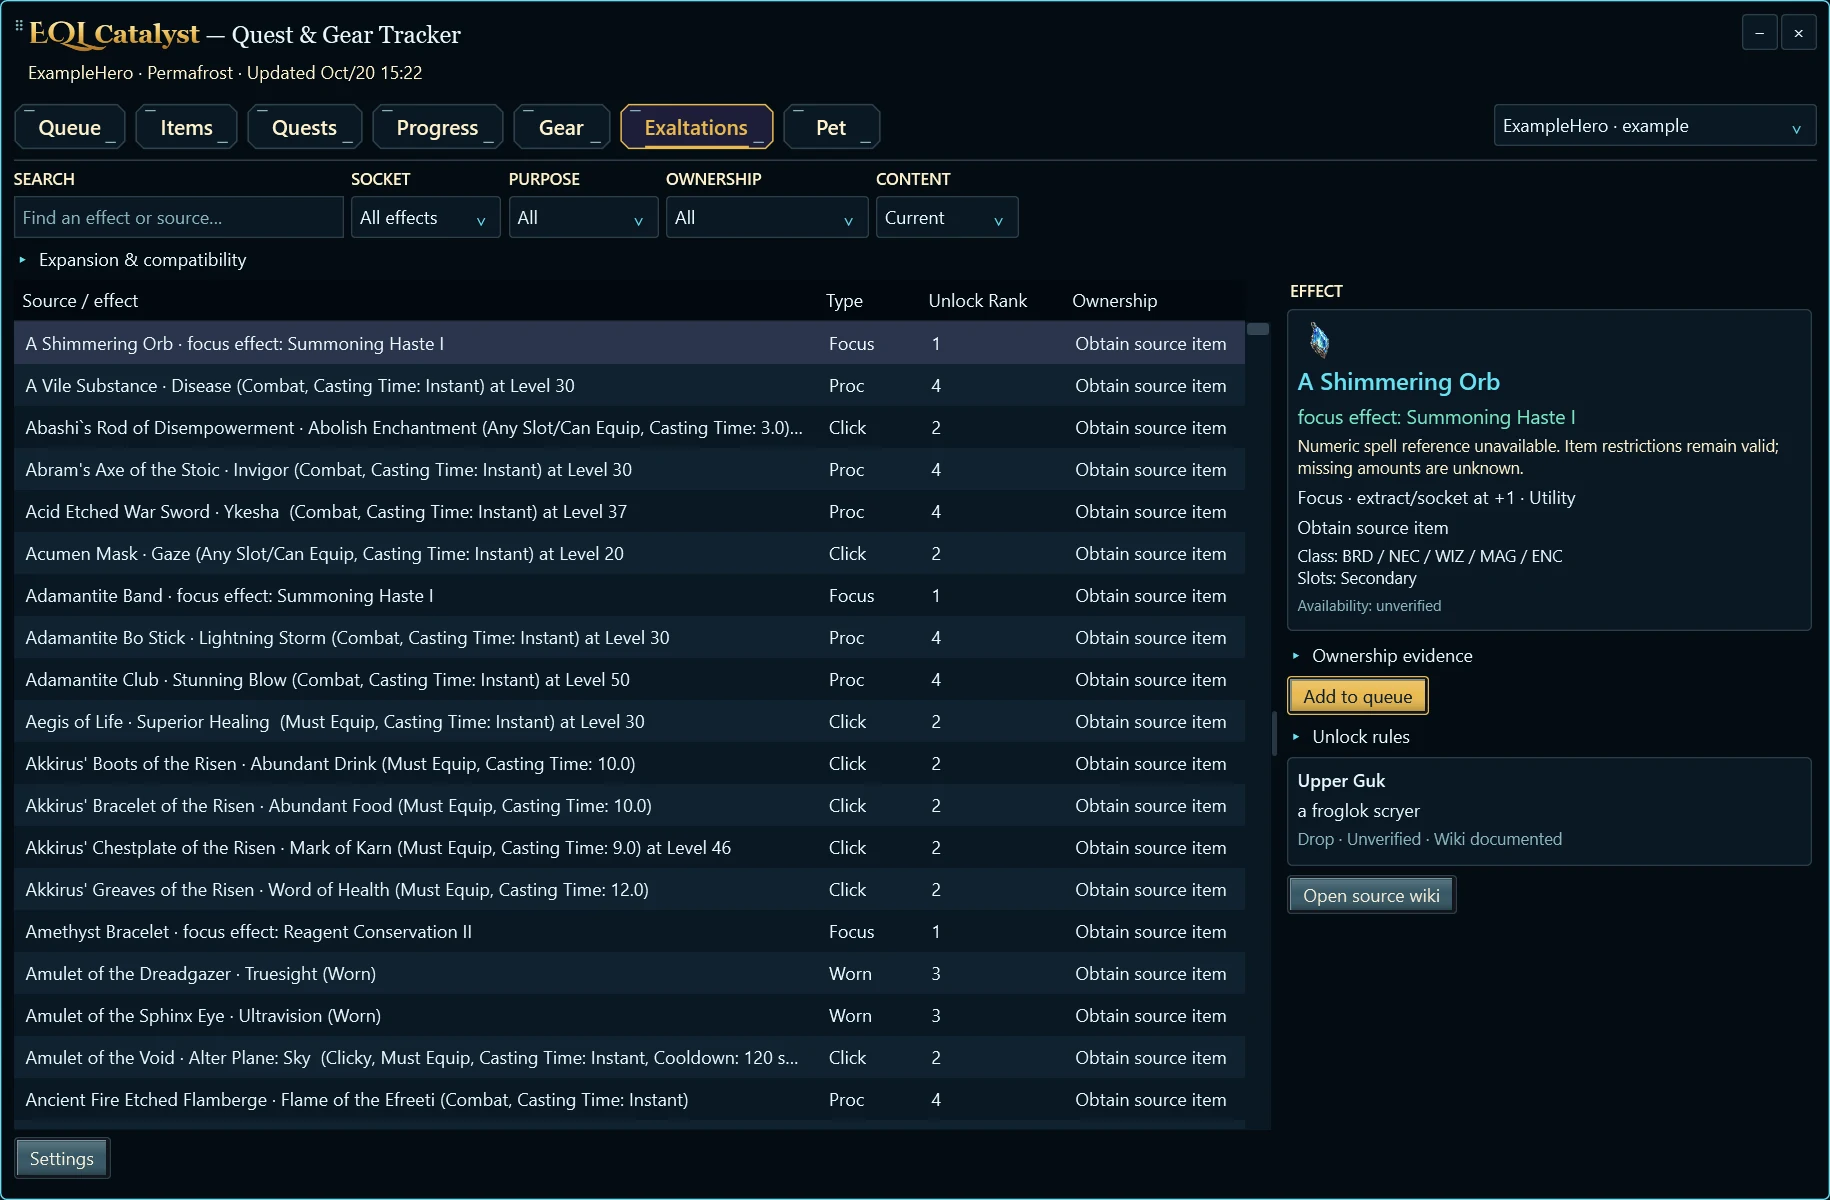
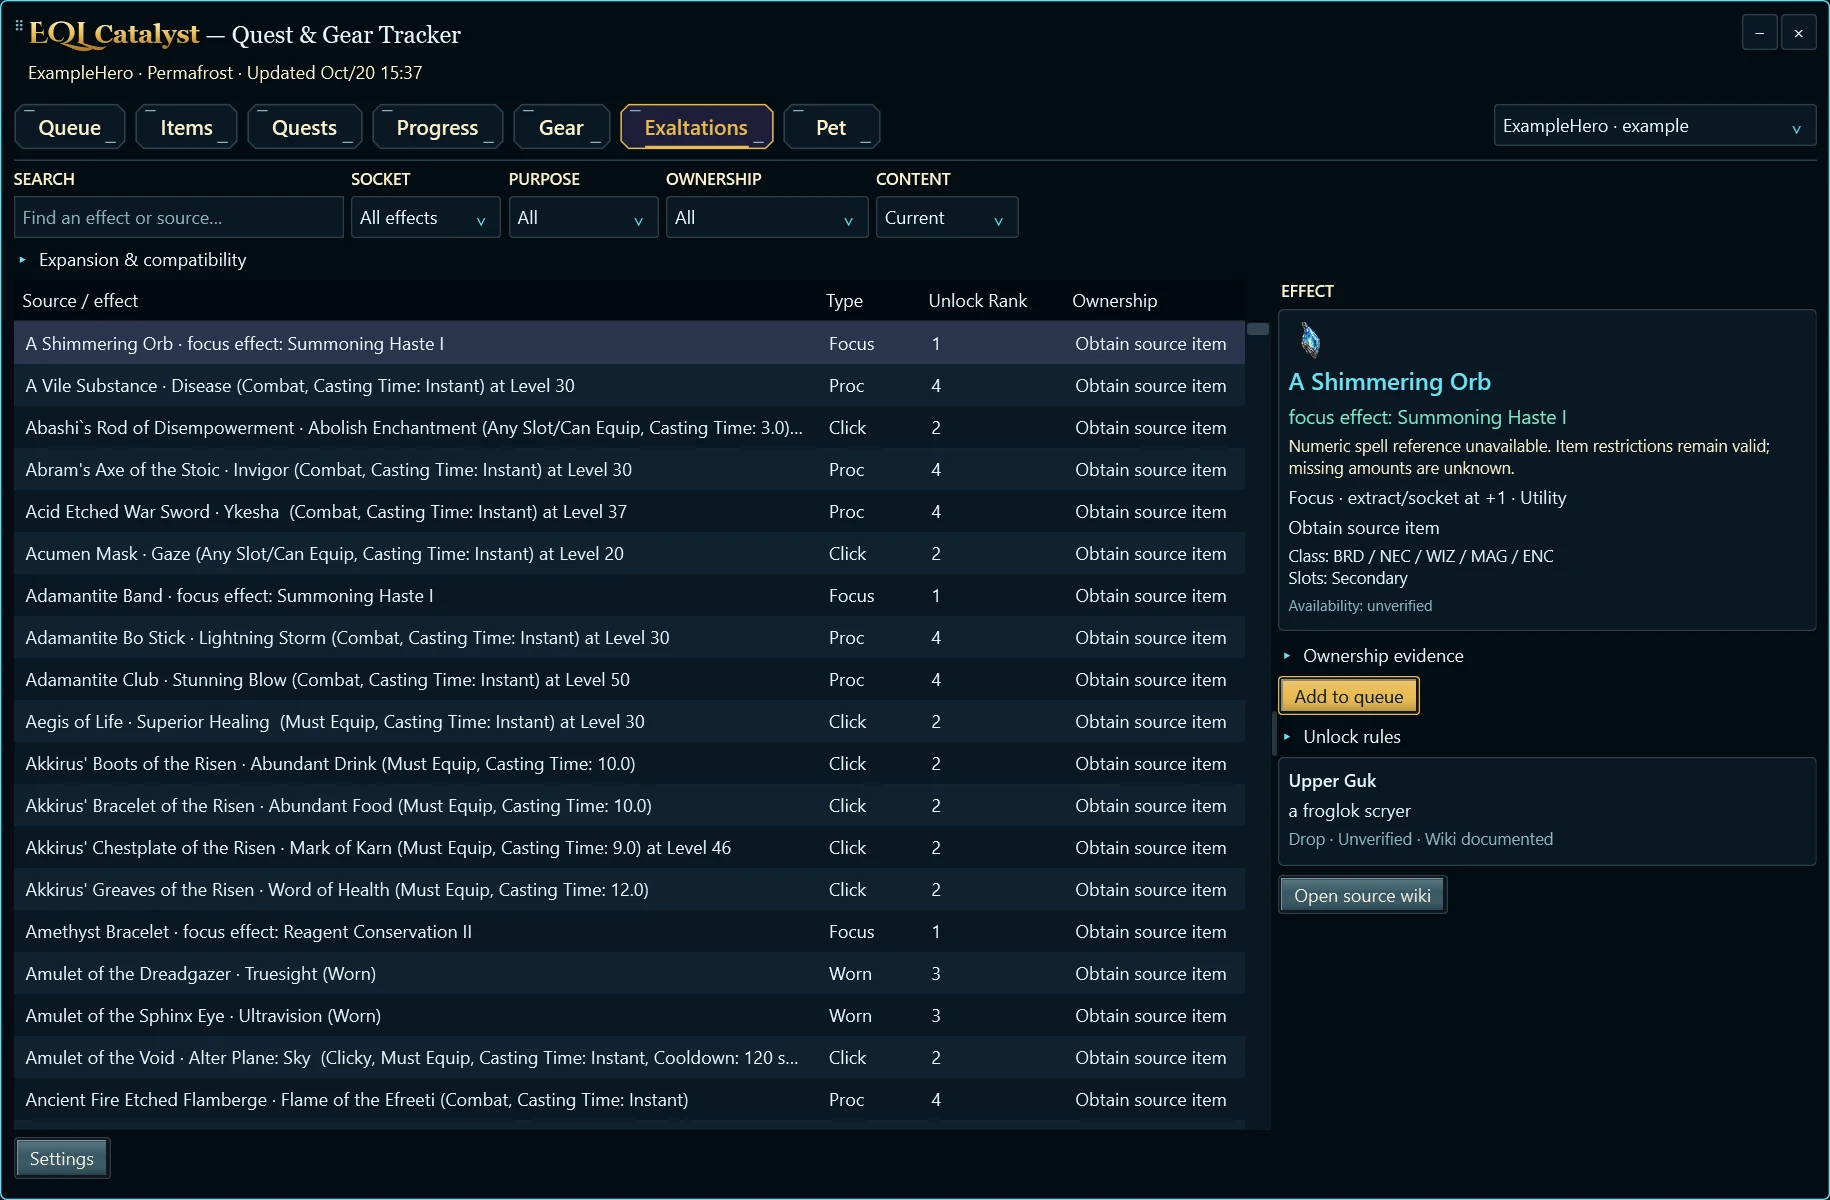
Remove matching Effect inspector inset and cover every theme

Changed region(s): [[0.6852, 0.2775, 0.9656, 0.6167], [0.6852, 0.6475, 0.841, 0.7092], [0.6852, 0.74, 0.8098, 0.7708]]

diff --git a/src/EqlTracker.App/CompactSettingsReview.cs b/src/EqlTracker.App/CompactSettingsReview.cs
@@ -107,6 +107,10 @@ internal static class CompactSettingsReview
                 foreach(string token in new[]{"Surface","InnerSurface","DetailSurface","AlternateRow","ButtonFace"}){var color=UI.Brush(token).Color;Check(color.R==color.G&&color.G==color.B&&color.R<=0x25,"Shadowman uses neutral near-black surfaces: "+token);}
                 Check(UI.Brush("Spell").Color!=UI.Brush("Melee").Color&&UI.Brush("Mint").Color.G>UI.Brush("Mint").Color.R,"Shadowman preserves semantic combat colors");
             }
+            tracker.ShowView(TrackerTab.Exaltations);Flush(tracker);
+            var effect=Usability.Tree(tracker).OfType<DockPanel>().Single(d=>d.Children.OfType<TextBlock>().Any(t=>t.Text=="EFFECT"));
+            Check(effect.Margin.Left==0&&effect.Margin.Right==0,themeName+" Effect inspector has no redundant horizontal outer inset");
+            foreach(double scale in new[]{1d,1.5,2d,3d})Save(themeName.ToLowerInvariant()+"-exaltation-spacing-"+scale.ToString("0.0",System.Globalization.CultureInfo.InvariantCulture)+"x",(FrameworkElement)tracker.Content,1220,800,scale);
         }
         var inspector=(DockPanel)FocusedLayout.FloatingInspector("Item Details",UI.Text("Synthetic item"));
         Check(inspector.Margin.Left==0&&inspector.Margin.Right==0&&inspector.Children.OfType<Border>().Single().Padding==new Thickness(6),"Floating inspectors remove outer horizontal padding and retain internal padding");

diff --git a/src/EqlTracker.App/ExaltationEvidenceControls.cs b/src/EqlTracker.App/ExaltationEvidenceControls.cs
@@ -6,7 +6,7 @@ public sealed partial class QuestWindow
 {
     private static UIElement FloatingEffectInspector(UIElement content)
     {
-        var root = new DockPanel { Margin = new(6, 0, 3, 5) }; var title = UI.Label("Effect"); title.Margin = new(2, 0, 0, 5); DockPanel.SetDock(title, Dock.Top); root.Children.Add(title); root.Children.Add(UI.Scroll(content)); return root;
+        var root = new DockPanel { Margin = new(0, 0, 0, 5) }; var title = UI.Label("Effect"); title.Margin = new(2, 0, 0, 5); DockPanel.SetDock(title, Dock.Top); root.Children.Add(title); root.Children.Add(UI.Scroll(content)); return root;
     }
     private bool exaltLabelChanging;
     private void RefreshExaltationCompatibilityLabel()
